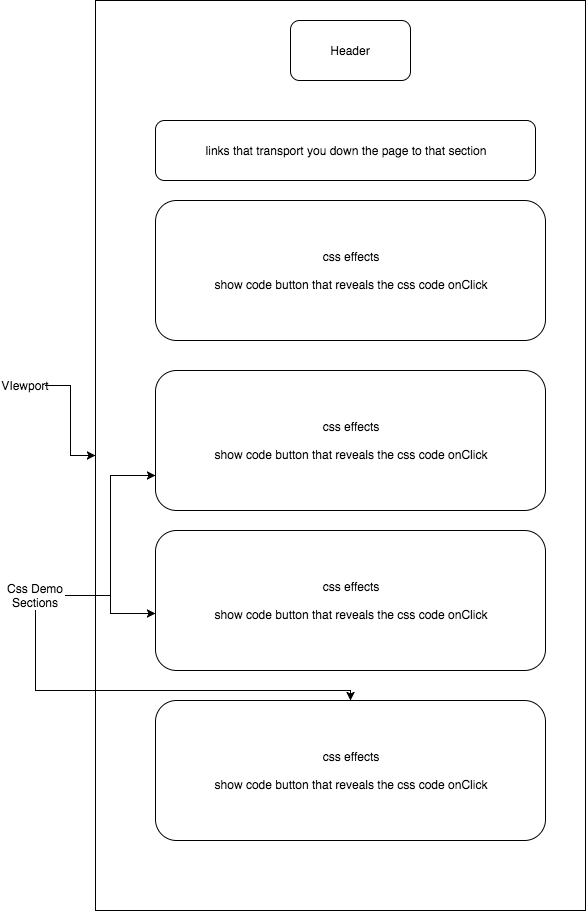
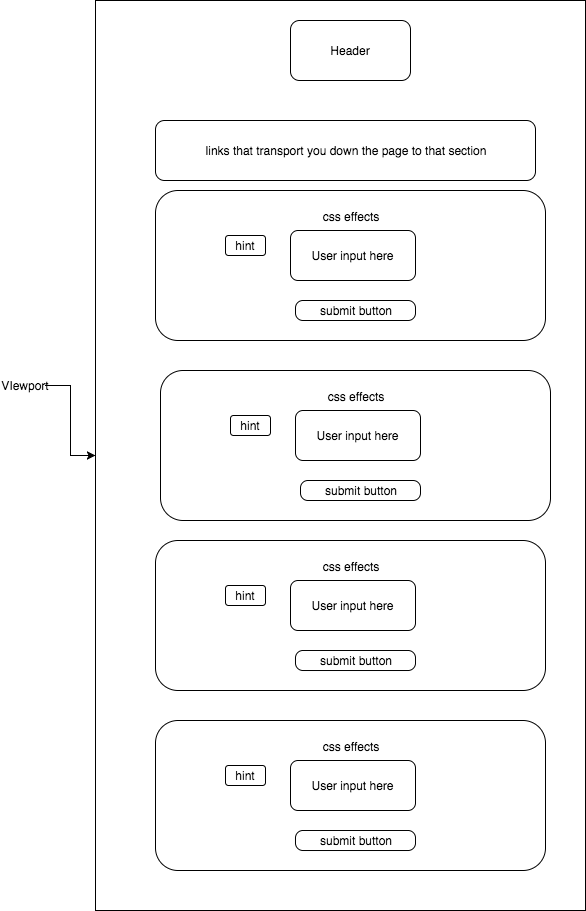
revised proposal

diff --git a/docs/proposal.md b/docs/proposal.md
@@ -36,7 +36,7 @@ This project will be implemented with the following technologies:
 
 **Day 2**: Finish collecting all the CSS code for the CSS features. Build the user interface out with the CSS functions and the forms that user will type their CSS into on the frontend.
 
-**Day 3**: Build out the backside of the program. Create the tutorials so that when a user types, the backend checks to see if their code is correct. Adding a hints button and a submit button.
+**Day 3**: Build out the backside of the program. Create the tutorials so that when a user types, the backend checks to see if their code is correct. Adding a hints button and a submit button. When the user submits a correct answer it will do something cool and activate the CSS feature. (not sure what, still brainstorming, open to ideas.) When the user submits an incorrect answer it will also do something cool and prompt for a hint. (again, not sure what, still brainstorming, open to ideas.) 
 
 **Day 4**: Style the frontend, making it polished and professional. Make sure everything works.
 

diff --git a/docs/css_functions.md b/docs/css_functions.md
@@ -7,4 +7,3 @@ transform:scale(1.1,1.1)
 transform:rotate(10deg)
 
 transform:skew(10deg,10deg)
-
